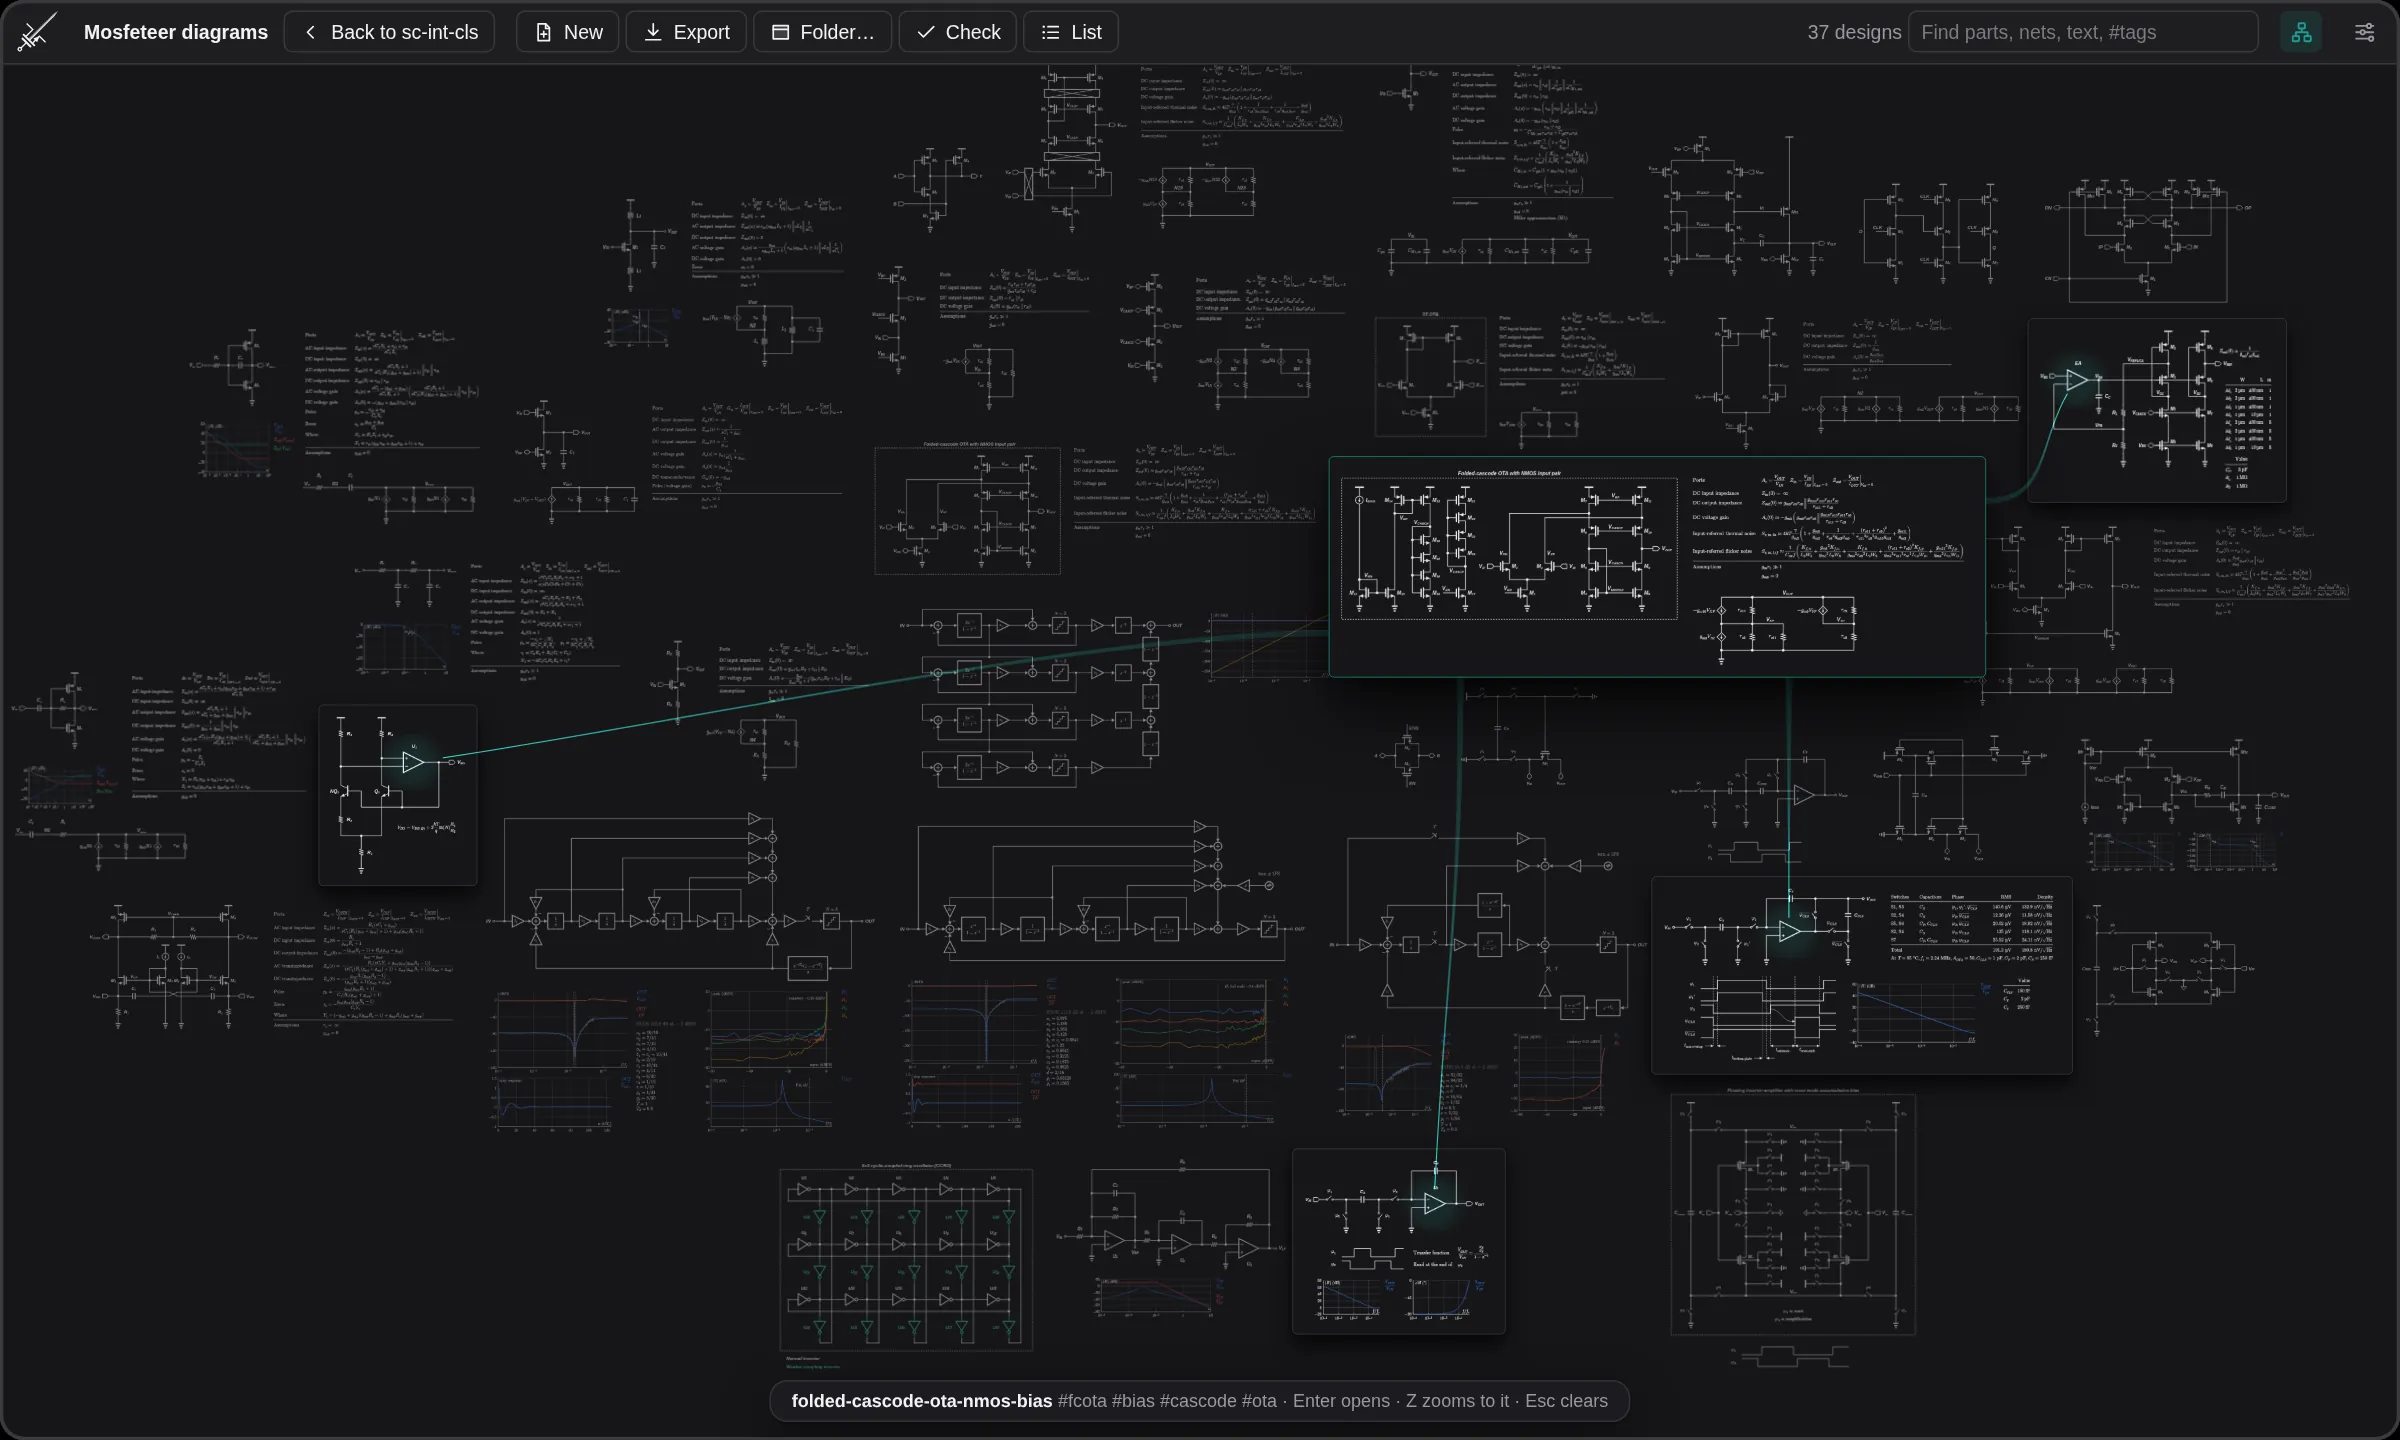
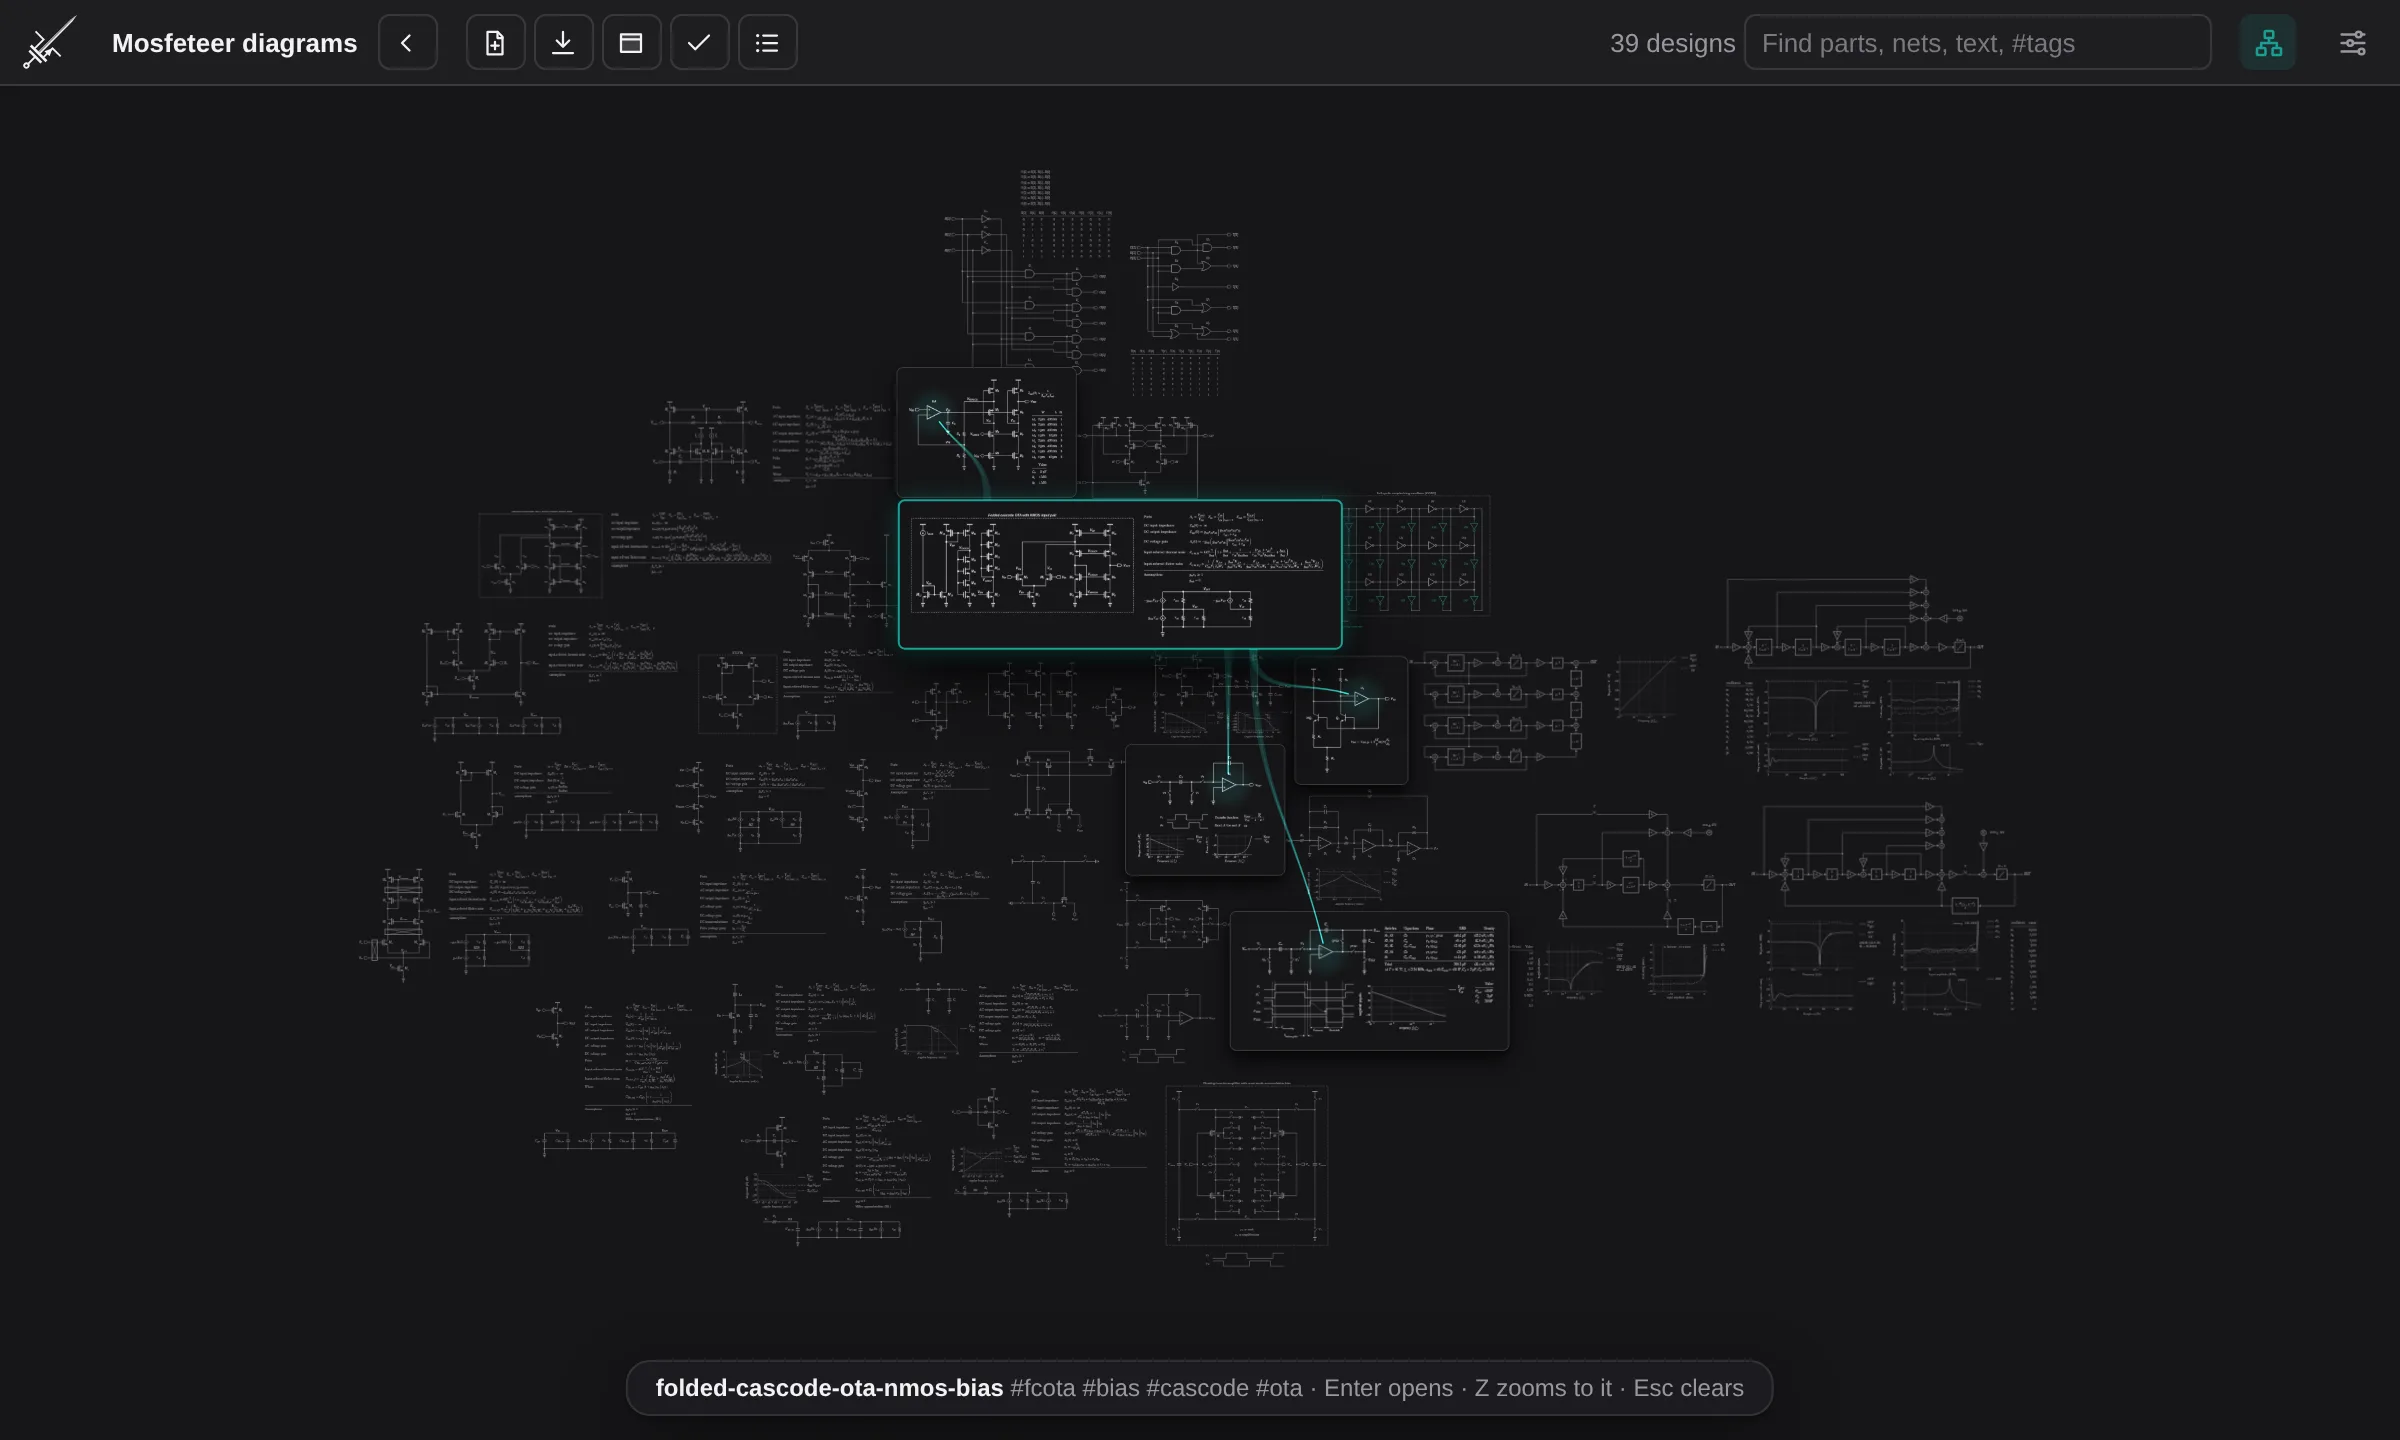
README: a design notebook, in short sections, with the pictures taken again
The README opens with the Atlas and has four sections: Draw, Analyze (the
five analysis modes, one sentence each), Document, and Organize, then the
install steps. The keys table is gone; ? in the editor lists every key.
The pictures are from the current editor: the two-stage Miller OTA with its
impedances and gain derived, the switched-capacitor integrator on its second
beat beside the timing diagram tool, and the Atlas with the folded-cascode
OTA picked.

diff --git a/README.md b/README.md
@@ -8,8 +8,8 @@
 <h1 align="center">Mosfeteer</h1>
 
 <p align="center">
-  <b>A drawing tool for analog circuit schematics.</b><br>
-  For figures in papers, slides, and documentation.
+  <b>A design notebook for analog circuits.</b><br>
+  Draw schematics and block diagrams fast, and keep the math, plots, and notes beside them.
 </p>
 
 <p align="center">
@@ -19,95 +19,68 @@
 </p>
 
 <p align="center">
-  <a href="#quick-start">Quick start</a> ·
-  <a href="#a-design">A design</a> ·
-  <a href="#analysis">Analysis</a> ·
-  <a href="#keys">Keys</a> ·
-  <a href="#more">More</a>
+  <img src="docs/images/atlas.webp" alt="The Atlas in the dark theme: a folder of 39 designs on one sheet. A folded-cascode OTA is picked, and lines run from it to the designs that use it.">
 </p>
 
-<br>
+Mosfeteer is a drawing tool for analog designers. Sketch a circuit or a
+block diagram, analyze it, and write down what you learn. The drawing is
+ready for a paper or a slide. Each design is one small `.json` file.
+
+## Draw
+
+Press `i` and type to place a part, and `w` to draw a wire. Move a part,
+and only the wires that must change are rerouted. Transistors, passives,
+op-amps, switches, logic gates, and block-diagram parts all share one
+grid and one look.
+
+## Analyze
+
+Press `Shift+S` and pick an input and an output. The analysis window has
+five modes:
+
+- **Circuit:** the gain, impedances, poles, zeros, and noise of a
+  transistor circuit, as equations you would write by hand.
+- **Signal flow:** the transfer functions of a block diagram, with step
+  response, root locus, swing, and a coefficient optimizer.
+- **Switched-cap:** the exact z-domain response of a switched-capacitor
+  circuit, with the kT/C noise of every switch.
+- **Logic:** the truth table of a gate-level drawing, and each output as a
+  minimized sum of products.
+- **Synthesis:** a truth table in, the minimized gates drawn out.
+
+Every symbol links back to the part it came from. Plot a result, then
+place the plot or the equations on the drawing with one click.
 
 <p align="center">
-  <img src="docs/images/editor.webp" alt="A two-stage Miller OTA in the editor. Beside the schematic, its notes give the target and the compensation reasoning with math, mentioning parts such as C_M and M5, and a to-do list; below them, the Plots window shows the voltage gain's magnitude over its phase.">
+  <img src="docs/images/editor.webp" alt="A two-stage Miller OTA in the editor, with its gain and phase plots placed under the schematic. On the right, the small-signal analysis window shows the input and output impedances and the voltage gain as equations.">
 </p>
 
-Mosfeteer is for drawing analog schematics as figures and documentation:
-quick to draw in, and the result is ready for a paper or slides. Each
-drawing can also carry what you worked out about the circuit, such as
-notes, derived equations, plots, a timing diagram, and its earlier saves.
-A design is one `.json` file in a folder.
+## Document
 
-## A design
-
-- **Schematic.** Press `i` and type to place a part, `w` to draw a wire.
-  Moving a part reroutes only the wires that have to change, so the layout
-  stays as you drew it.
-- **Notes** (`n`). Markdown with math. `@M1` points at a part or net and
-  lights it up on the drawing; `[[amp]]` links to another design.
-- **Analysis** (`Shift+S`). Symbolic small-signal results, block-diagram
-  transfer functions, and switched-capacitor z-domain responses, described
-  [below](#analysis). Equations and plots can be placed on the drawing.
-- **Timing and beats** (`Shift+K`, `Shift+B`). A timing diagram of the
-  clock phases, and beats that step through the circuit phase by phase,
-  with open switches drawn open and what they cut off dimmed. Useful for
-  checking a switched-capacitor circuit, and for presenting it.
-- **History.** Saves are kept inside the file. Pin the one that works
-  as a checkpoint and go back to it later.
-- **Links.** A part can stand for another design: an op-amp for its
-  transistor-level circuit. Peek at it, open it, or keep it beside you in a
-  reference window (`Shift+V`).
+Write notes beside the circuit, in Markdown with math. `@M1` points at a
+part on the drawing, and `[[amp]]` links to another design. Draw the clock
+in the timing diagram tool, then step through it phase by phase: each
+phase shows its switches open or closed, with the cut-off parts dimmed.
 
 <p align="center">
-  <img src="docs/images/beats.webp" alt="A switched-capacitor integrator stepped to its second beat: the switches open in that phase are drawn open and the parts they cut off are dimmed. In the timing diagram below, a shaded band marks the slots of the phase on screen, and the beats window lists the three phases. On the right, the timing diagram editor shows each phase's slots as a grid, the non-overlap pairs, and the arrows and spans drawn on the diagram.">
+  <img src="docs/images/beats.webp" alt="A switched-capacitor integrator in the dark theme, stepped to its second phase: open switches are drawn open and what they cut off is dimmed. A noise table, a timing diagram, and a frequency response sit beside it. On the right, the timing diagram tool shows each phase as a row of slots and which phases must not overlap.">
 </p>
 
-## The workspace
+Export SVG, PDF, or PNG cut to the drawing. Set the page to an IEEE
+column, and the text comes out at the right size. Your notes can become a
+report with numbered figures. Each design keeps its own save history.
 
-The **Atlas** (`Shift+Backspace`) lays out all designs in the folder on
-one sheet. Search it for parts, nets, text, or `#tags`. Pick a design and
-the ones it links to are drawn joined to it. Open one with a double-click.
+## Organize
 
-<p align="center">
-  <img src="docs/images/atlas.webp" alt="The Atlas: a workspace's designs on one dark sheet. The folded-cascode OTA is picked and lifted; lines run to it from the op-amps of the four designs that use it, and the rest are dimmed.">
-</p>
+The Atlas, shown at the top, lays out every design in a folder. Search it
+for a part, a net, or a `#tag`. Pick a design to see which others use it.
+A part can also stand for another design, such as an op-amp for its
+transistor-level circuit.
 
-## Analysis
+## Install
 
-The analysis window (`Shift+S`) picks its mode from what is drawn.
-
-**Small-signal.** Solves a transistor circuit exactly and writes the result
-as you would by hand: Z<sub>in</sub>, Z<sub>out</sub>, the gain, poles and
-zeros, and input-referred noise. Each symbol links back to the device it
-came from. Optional: the loop gain, broken at an op-amp, a terminal, a net,
-or between two nets when the loop is not drawn closed; an op-amp's closed
-loop split into its ideal gain and direct feedthrough; and the poles' time
-constants, one per capacitor. Pick the input and output on the drawing; an
-ambiguous pick gets an explanation, not a guess.
-
-**Signal flow.** For block diagrams: gains, sums, H(s) and H(z) blocks,
-samplers, and quantizers. The transfer function from each source to the output
-comes from one solve, so a delta-sigma modulator's STF and NTF come out
-together. Symbols like `a_1` stay symbolic in the equations and get sliders
-in the plots.
-
-**Switched-capacitor.** The exact z-domain transfer function of a switched-
-capacitor circuit, by charge conservation from phase to phase, with its kT/C
-noise. The clock comes from the timing diagram.
-
-The **Plots** window (`Shift+W`) shows magnitude over phase, the step
-response, root locus, loop gain with margins, signal swing against input
-amplitude, and a time-domain simulation. The **optimizer** searches free
-coefficients for the best result that meets your limits (in-band noise,
-peaking, pole Q, signal swing).
-
-Also at hand: a **calculator** (`Shift+E`) that reads `1/(2pi*10k*1n)`, and
-a **design check** (`x`) for unconnected pins, overlapping nets, and other
-slips.
-
-## Quick start
-
-You need [Node.js](https://nodejs.org/) 18 or newer.
+You need [Node.js](https://nodejs.org/) 18 or newer. There is nothing else
+to install.
 
 ```sh
 git clone https://github.com/ojarvin/mosfeteer.git
@@ -115,92 +88,31 @@ cd mosfeteer
 node launch.mjs
 ```
 
-The editor opens in its own window and quits when you close it.
+The editor opens in its own window. Press `?` there to see every key and
+the tutorials.
 
 - **Windows:** double-click `Mosfeteer.cmd`.
-- **Linux or macOS:** `node launch.mjs --install` adds Mosfeteer to the
-  application menu.
-- **No Node?** Open [`browser-only/index.html`](browser-only/index.html)
-  directly and pick a folder for your designs (**Open folder…**). Chrome and
-  Edge save straight into it. Firefox and Safari can read it but save by
-  downloading a copy.
+- **Linux or macOS:** run `node launch.mjs --install` to add Mosfeteer to
+  your app menu.
+- **No Node?** Open [`browser-only/index.html`](browser-only/index.html) in
+  your browser and pick a folder for your designs. Chrome and Edge save
+  into it. Firefox and Safari save by downloading a copy.
 
-## Keys
+New designs go to `~/Documents/Schematics` unless you pick another folder.
 
-| | | |
-| --- | --- | --- |
-| **Draw** | `i` | place a part |
-| | `w` | draw a wire |
-| | `l` | name a net |
-| | `k` | hold a symmetry axis: what is drawn on one side is drawn on the other |
-| **Tidy** | `Shift+Q` | arrange the selection like your other drawings of it |
-| | `Shift+T` | tidy the selection's wires and labels |
-| | `x` | design check |
-| **Analyze** | `Shift+S` | analysis |
-| | `Shift+W` | plots |
-| | `Shift+E` | calculator |
-| **Timing** | `Shift+K` | timing diagram |
-| | `Shift+B` | beats |
-| **Document** | `Shift+N` | notes |
-| | `Shift+V` | reference windows |
-| | `Shift+Backspace` | the Atlas: all designs in the workspace |
-| **Anywhere** | `Esc` | let go of the selection, then close windows one by one |
-| | `?` | all other keys, the tutorials, and the symbols |
-
-## More
-
-<details>
-<summary><b>Files</b></summary>
-
-<br>
-
-Each design is one `.json` file, so it is easy to keep in git or send to
-someone, and its notes and save history go with it. New designs go to the
-workspace folder, `~/Documents/Schematics` unless you pick another. A design
-with no unsaved changes reloads when its file changes on disk, after a
-`git pull` for example. **Export** (`Ctrl/Cmd+E`) writes SVG, PDF, or PNG
-cropped to the drawing; with a page guide (IEEE single or double column,
-A4, or a width and text size of your own, chosen in the Export dialog or
-Settings) the text comes out at the paper's figure size. Its **Report**
-writes the notes as a PDF or HTML document: each `![[circuit|caption]]`
-line in the notes places a numbered figure of the drawing (the circuit, a
-beat, a plot or table the tools drew), `[[#circuit]]` refers to it, and
-every figure is set at the page guide's width.
-
-</details>
-
-<details>
-<summary><b>Scripting</b></summary>
-
-<br>
-
-The editor, the CLI, and the HTTP API use one command language:
+## Development
 
 ```sh
-npm run cli -- amp "add nmos M1 --at 120 120"   # edits <workspace>/amp.json
-```
-
-</details>
-
-<details>
-<summary><b>Development</b></summary>
-
-<br>
-
-```sh
-npm run serve   # dev server with auto-restart at http://127.0.0.1:47280/
+npm run serve          # dev server at http://127.0.0.1:47280/
 npm test               # unit tests
-npm run test:browser   # the editor driven in headless Chromium
+npm run test:browser   # the editor, driven in headless Chromium
+npm run cli -- amp "add nmos M1 --at 120 120"   # script a design
 ```
 
-- [`docs/model.md`](docs/model.md) · [`docs/editor.md`](docs/editor.md): symbols, model rules, and editor behavior
-- [`docs/notes-and-history.md`](docs/notes-and-history.md): notes and save history
-- [`docs/atlas.md`](docs/atlas.md) · [`docs/hierarchy.md`](docs/hierarchy.md) · [`docs/beats.md`](docs/beats.md): the Atlas, linked designs, beats, and timing diagrams
-- [`docs/symbolic-analysis.md`](docs/symbolic-analysis.md) · [`docs/topological-small-signal.md`](docs/topological-small-signal.md): small-signal analysis
-- [`docs/signal-flow-analysis.md`](docs/signal-flow-analysis.md) · [`docs/switched-cap-analysis.md`](docs/switched-cap-analysis.md): signal-flow and switched-capacitor analysis, swing, and the optimizer
-
-</details>
+The editor, the CLI, and the HTTP API share one command language. The
+[`docs/`](docs/) folder describes the model, the editor, and each analysis.
 
 ## License
 
-[MIT](LICENSE). The bundled Latin Modern Math font in `src/web/fonts/` has its own [GUST Font License](src/web/fonts/GUST-FONT-LICENSE.txt).
+[MIT](LICENSE). The bundled Latin Modern Math font in `src/web/fonts/` has
+its own [GUST Font License](src/web/fonts/GUST-FONT-LICENSE.txt).
